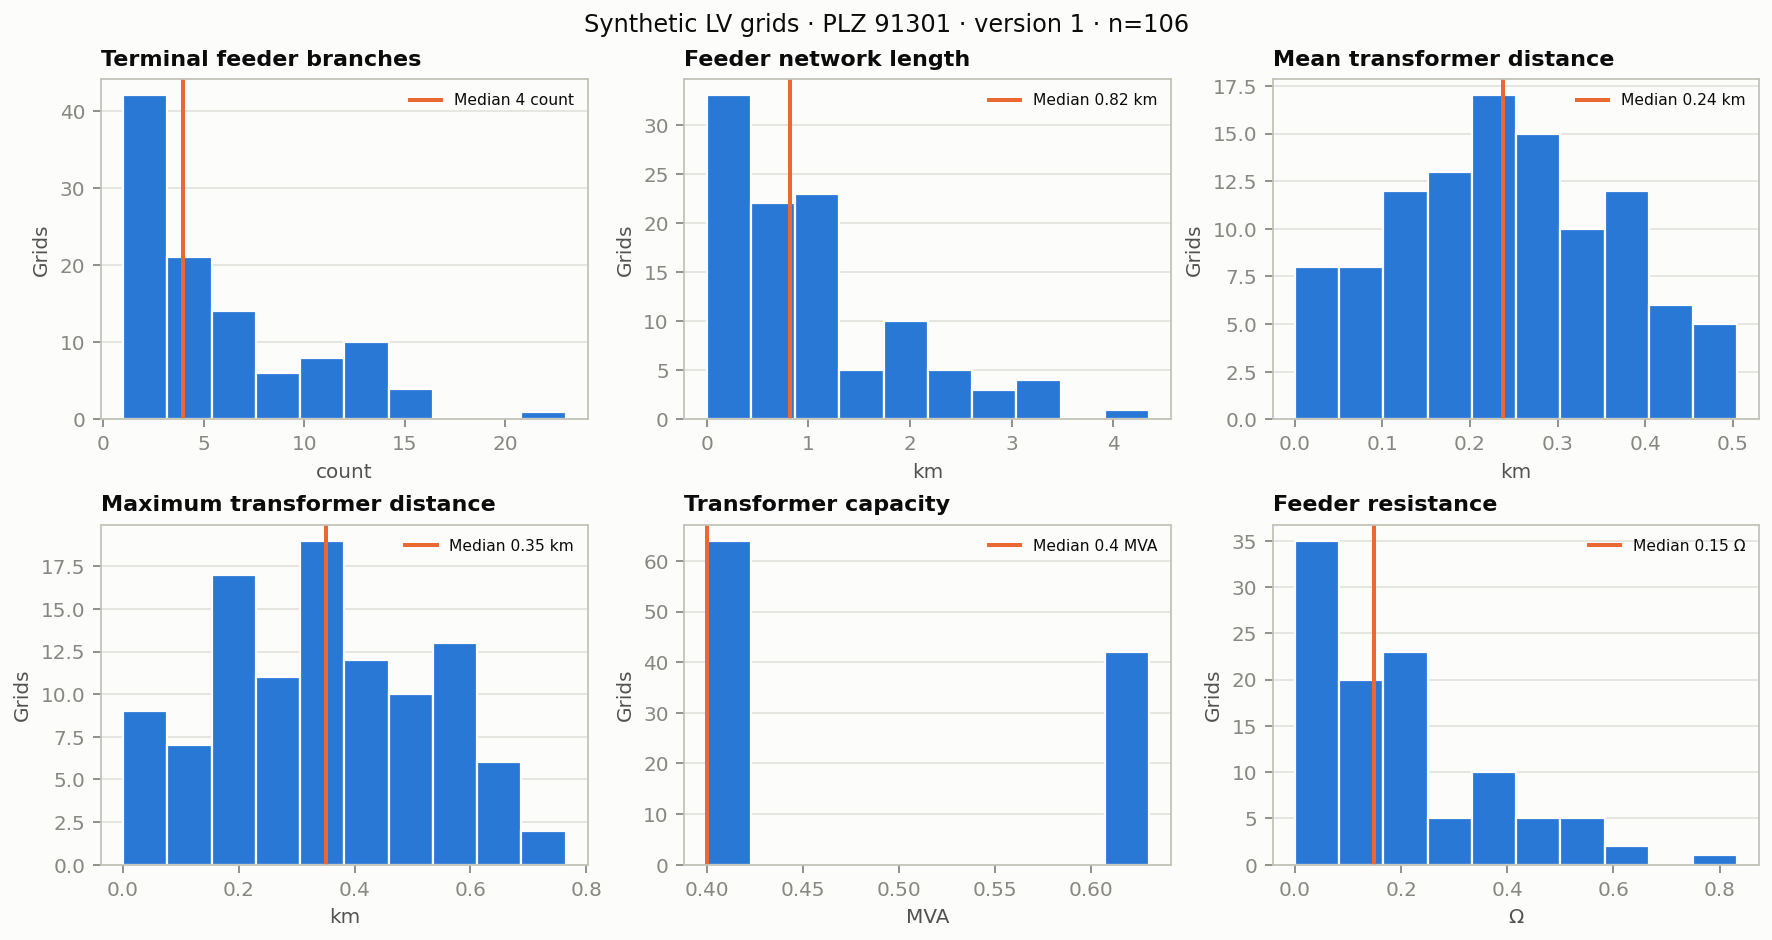
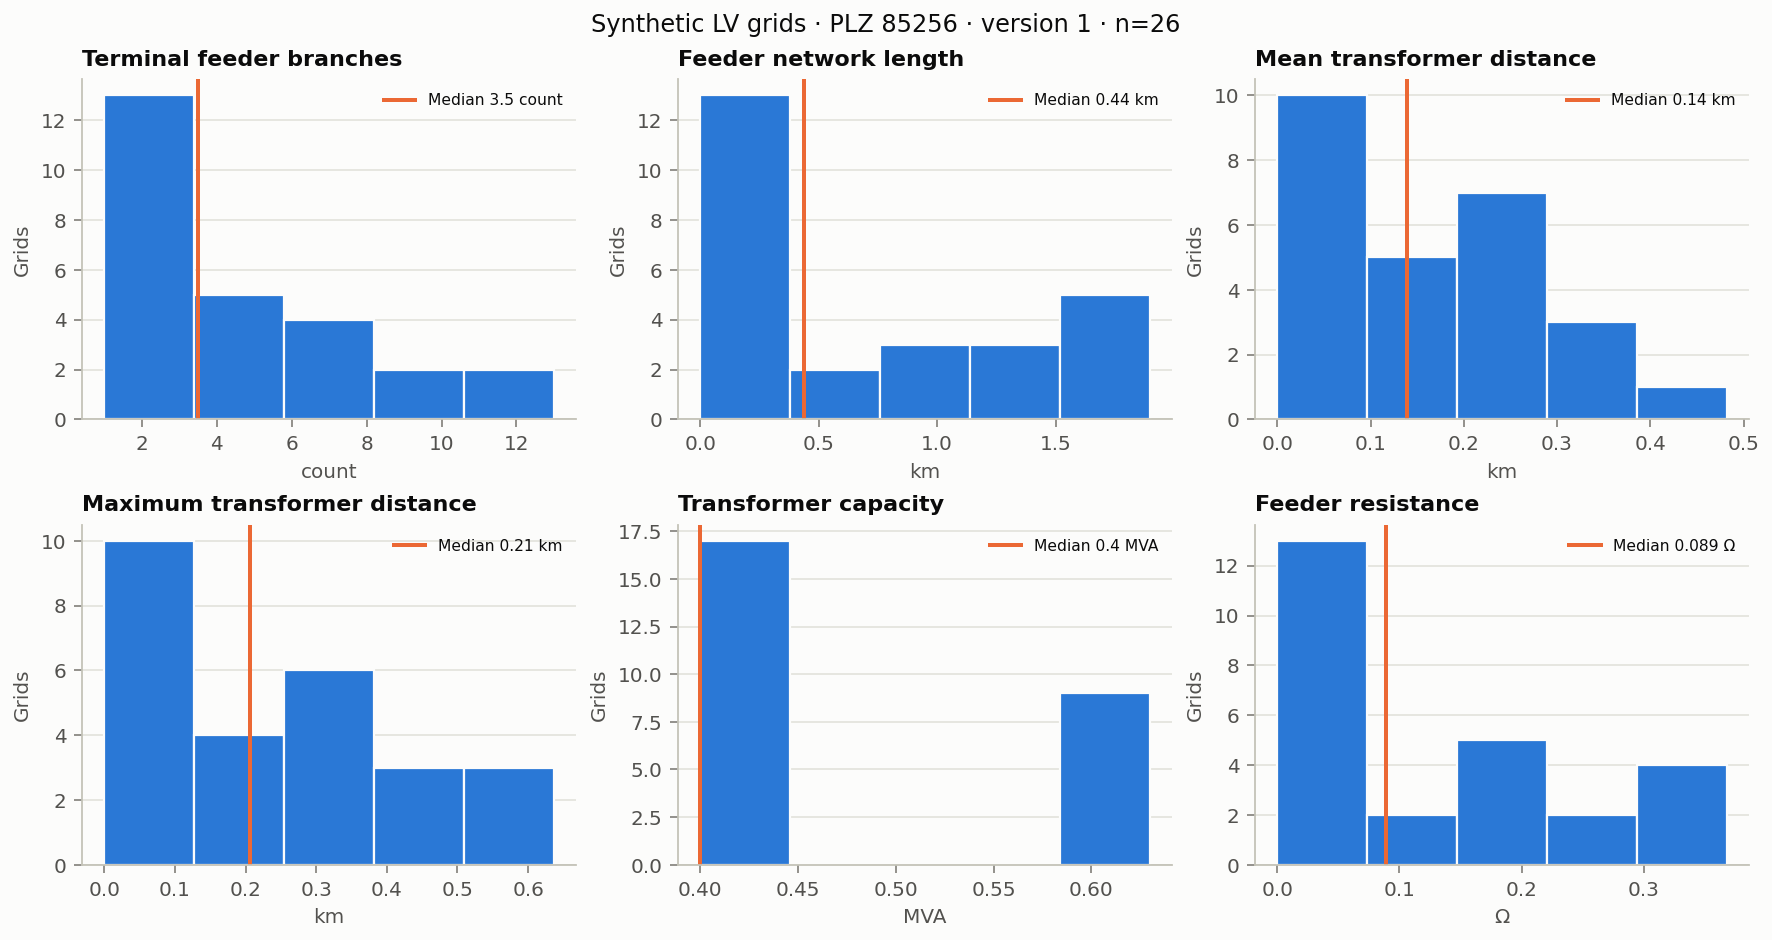
Show the comparison metrics of the semi-urban example area instead of PLZ 91301 and read them in a read-only session

diff --git a/docs/scripts/plot_synthetic_metrics.py b/docs/scripts/plot_synthetic_metrics.py
@@ -1,7 +1,8 @@
 """Plot the six comparison metrics for stored synthetic grids only.
 
-Read-only: loads version 1, PLZ 91301 and never invokes the comparison export,
-which drops and recreates ``pylovo.grid_parameters``. Run from the repository root::
+Read-only: loads version 1 of the semi-urban example area of the tutorials (PLZ 85256) through a read-only database
+session and never invokes the comparison export, which drops and recreates ``pylovo.grid_parameters``. Needs the
+database of the Bavaria run in ``.env``. Run from the repository root::
 
     uv run --extra plots python docs/scripts/plot_synthetic_metrics.py
 """
@@ -13,9 +14,10 @@ import numpy as np
 
 from pylovo.analysis.grid_analysis import compute_comparison_parameters
 from pylovo.analysis.parameter_calculation import ParameterCalculator
+from pylovo.database.database_client import DatabaseClient
 
 VERSION_ID = "1"
-PLZ = 91301
+PLZ = 85256
 MIN_BUSES = 5
 METRICS = (
     ("feeder_lines", "Terminal feeder branches", "count"),
@@ -30,6 +32,8 @@ METRICS = (
 def main() -> None:
     style.apply_style()
     calculator = ParameterCalculator()
+    calculator.dbc.close()
+    calculator.dbc = DatabaseClient.read_only()       # every statement of the script runs read-only
     dbc = calculator.dbc
     try:
         dbc.cur.execute(

diff --git a/docs/source/user_guide/analysing_grids.rst b/docs/source/user_guide/analysing_grids.rst
@@ -51,19 +51,17 @@ buses, cable distribution cabinets and service cables by the names of an export,
    :alt: Six histograms of feeder count, feeder length, mean and maximum transformer distance, transformer capacity and resistance for synthetic grids
    :width: 100%
 
-   Distributions for **synthetic grids only**, version 1, PLZ 91301. Of 113 stored grids,
-   106 have at least five buses and enter the figure; seven smaller grids are excluded. The
-   orange lines mark medians. The read-only source script is
-   ``docs/scripts/plot_synthetic_metrics.py``; run it with
-   ``uv run --extra plots python docs/scripts/plot_synthetic_metrics.py`` after generating
-   grids for this version and postcode.
+   Distributions for **synthetic grids only**, version 1 of the Bavaria run, PLZ 85256 (Vierkirchen, the
+   semi-urban example area of the tutorials). All 26 stored grids have at least five buses and enter the figure.
+   The orange lines mark medians. The read-only source script is ``docs/scripts/plot_synthetic_metrics.py``; run
+   it with ``uv run --extra plots python docs/scripts/plot_synthetic_metrics.py`` against a database with this
+   version and postcode.
 
-In this synthetic set, the median grid has four terminal feeder branches, 0.82 km of backbone
-and a 0.63 MVA transformer station. Its mean and maximum transformer-to-terminal distances are
-0.24 and 0.35 km, and the median resistance proxy is 0.15 Ω. The 10th–90th percentile range of
-backbone length is 0.15–2.31 km, showing substantial variation between local networks. These
-summaries describe this one generated postcode and version; use a broader regional sample for
-population-level conclusions.
+In this synthetic set, the median grid has three to four terminal feeder branches, 0.44 km of backbone and a
+0.4 MVA transformer station. Its mean and maximum transformer-to-terminal distances are 0.14 and 0.21 km, and the
+median resistance proxy is 0.09 Ω. The 10th–90th percentile range of backbone length is 0.03–1.75 km, showing
+substantial variation between local networks. These summaries describe this one generated postcode and version; use
+a broader regional sample for population-level conclusions.
 
 Stored diagnostics
 ------------------
